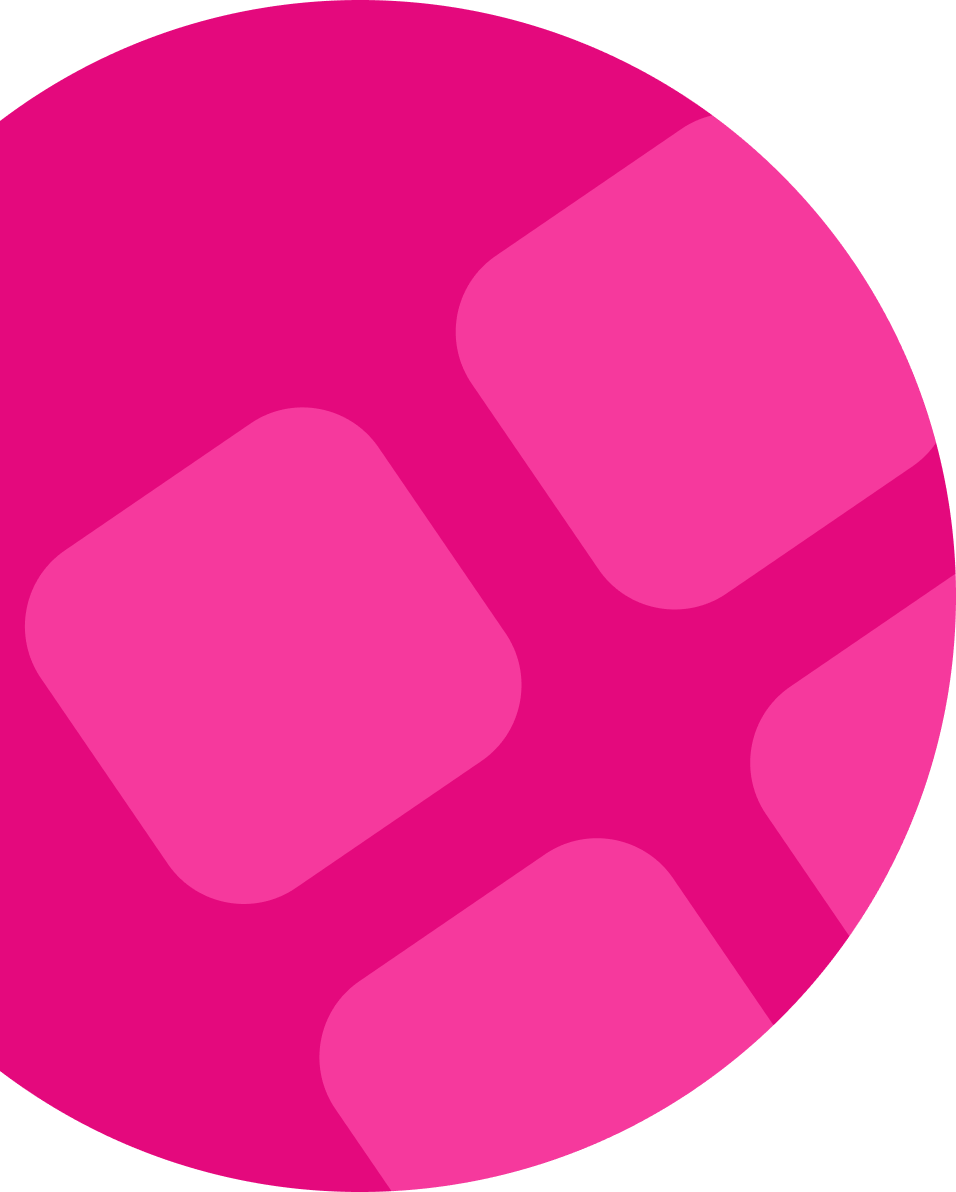
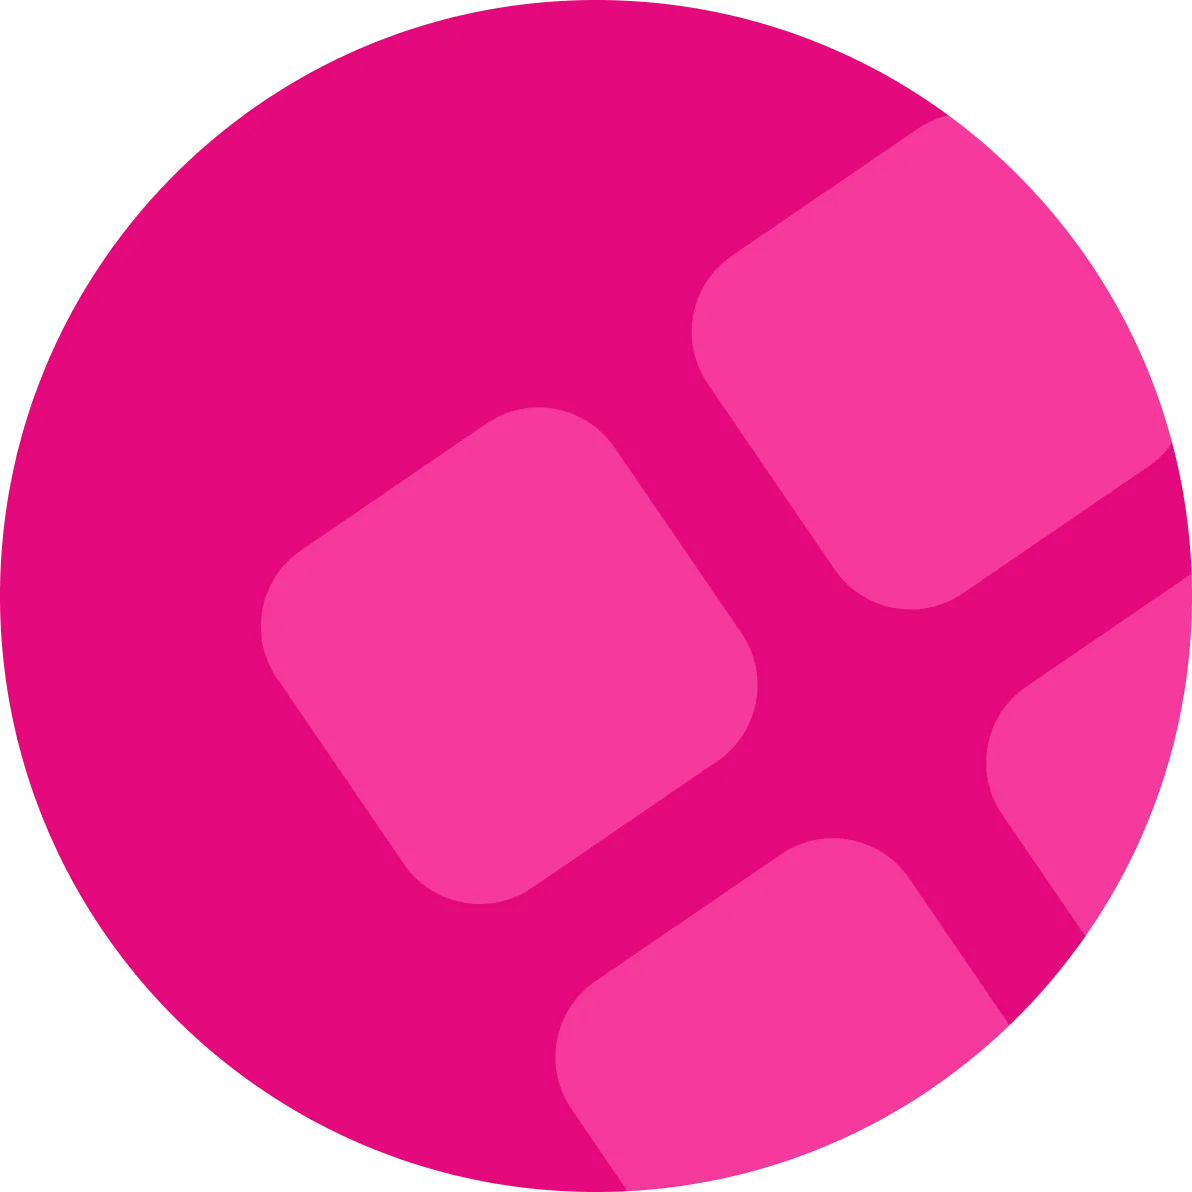
fix

diff --git a/src/ui/blocks/CompetitionStages/CompetitionStages.module.scss b/src/ui/blocks/CompetitionStages/CompetitionStages.module.scss
@@ -31,6 +31,17 @@
                     top: -15%;
                     left: 0;
                 }
+
+                animation: spinSelf 100s linear infinite;
+
+                @keyframes spinSelf {
+                    from {
+                        transform: rotate(0deg);
+                    }
+                    to {
+                        transform: rotate(360deg);
+                    }
+                }
             }
 
             .iconOne {
